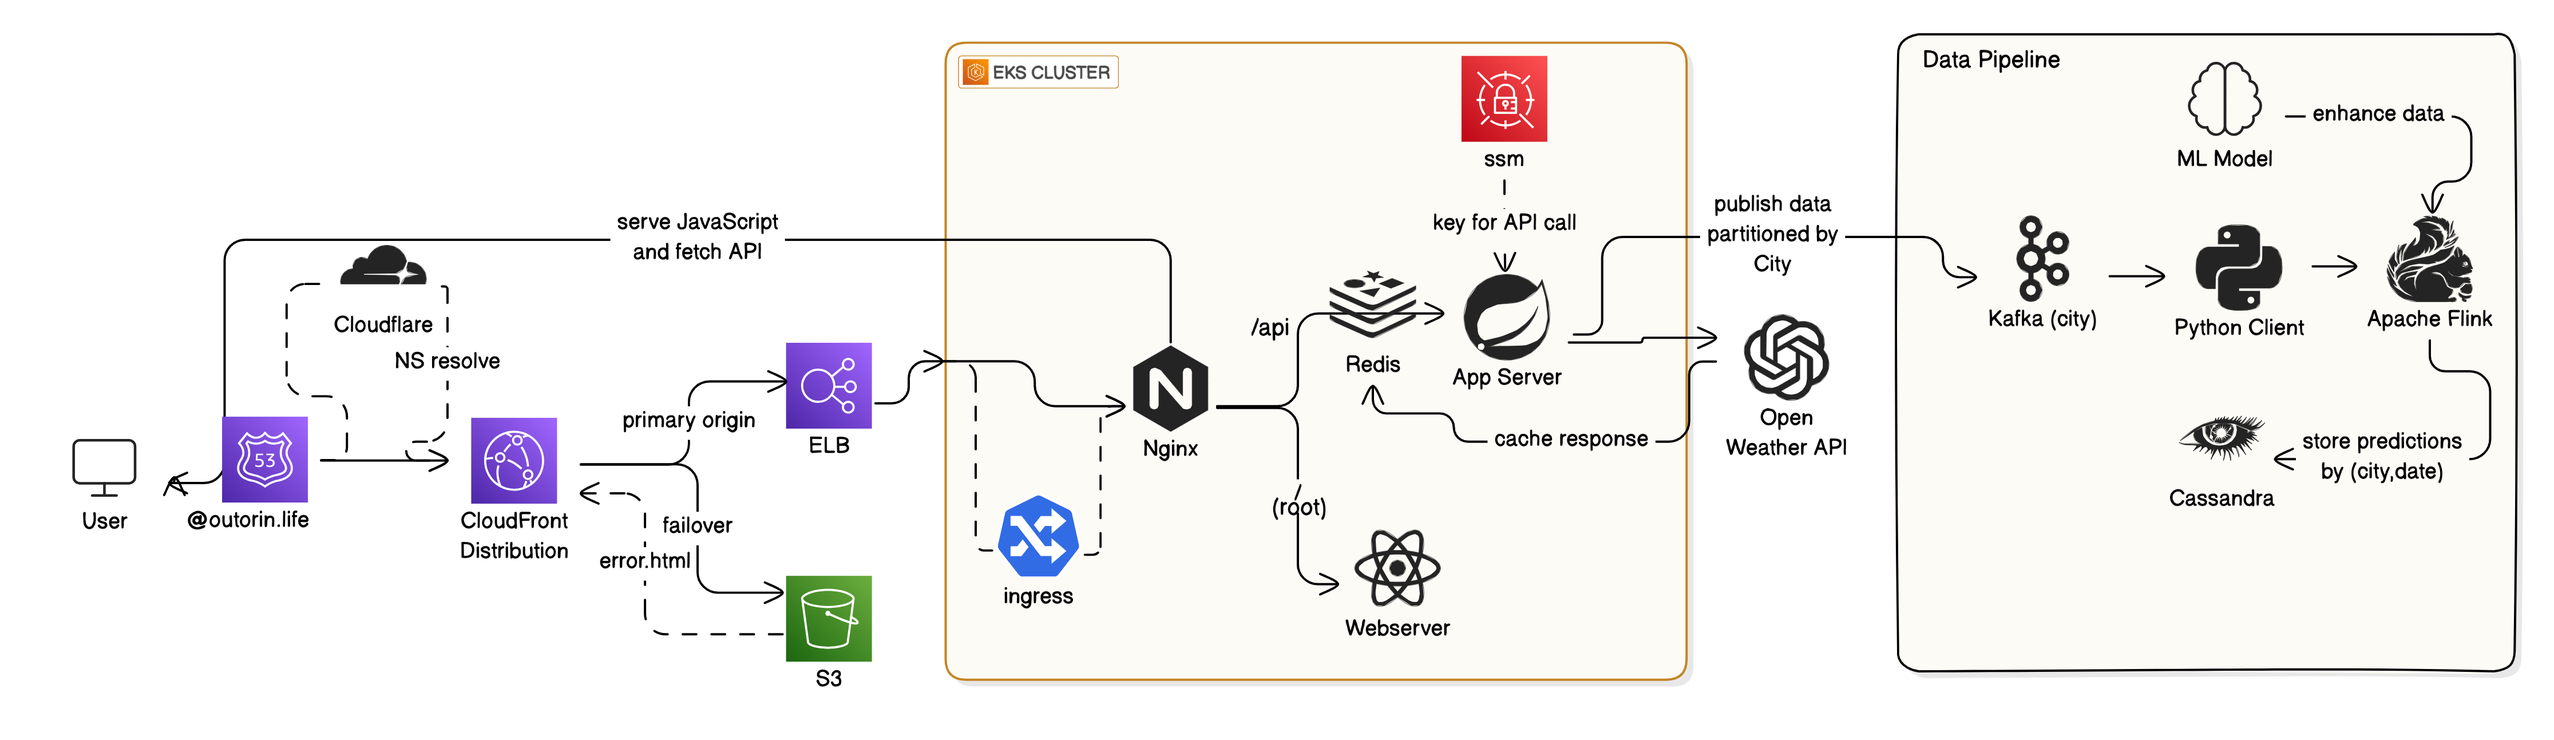
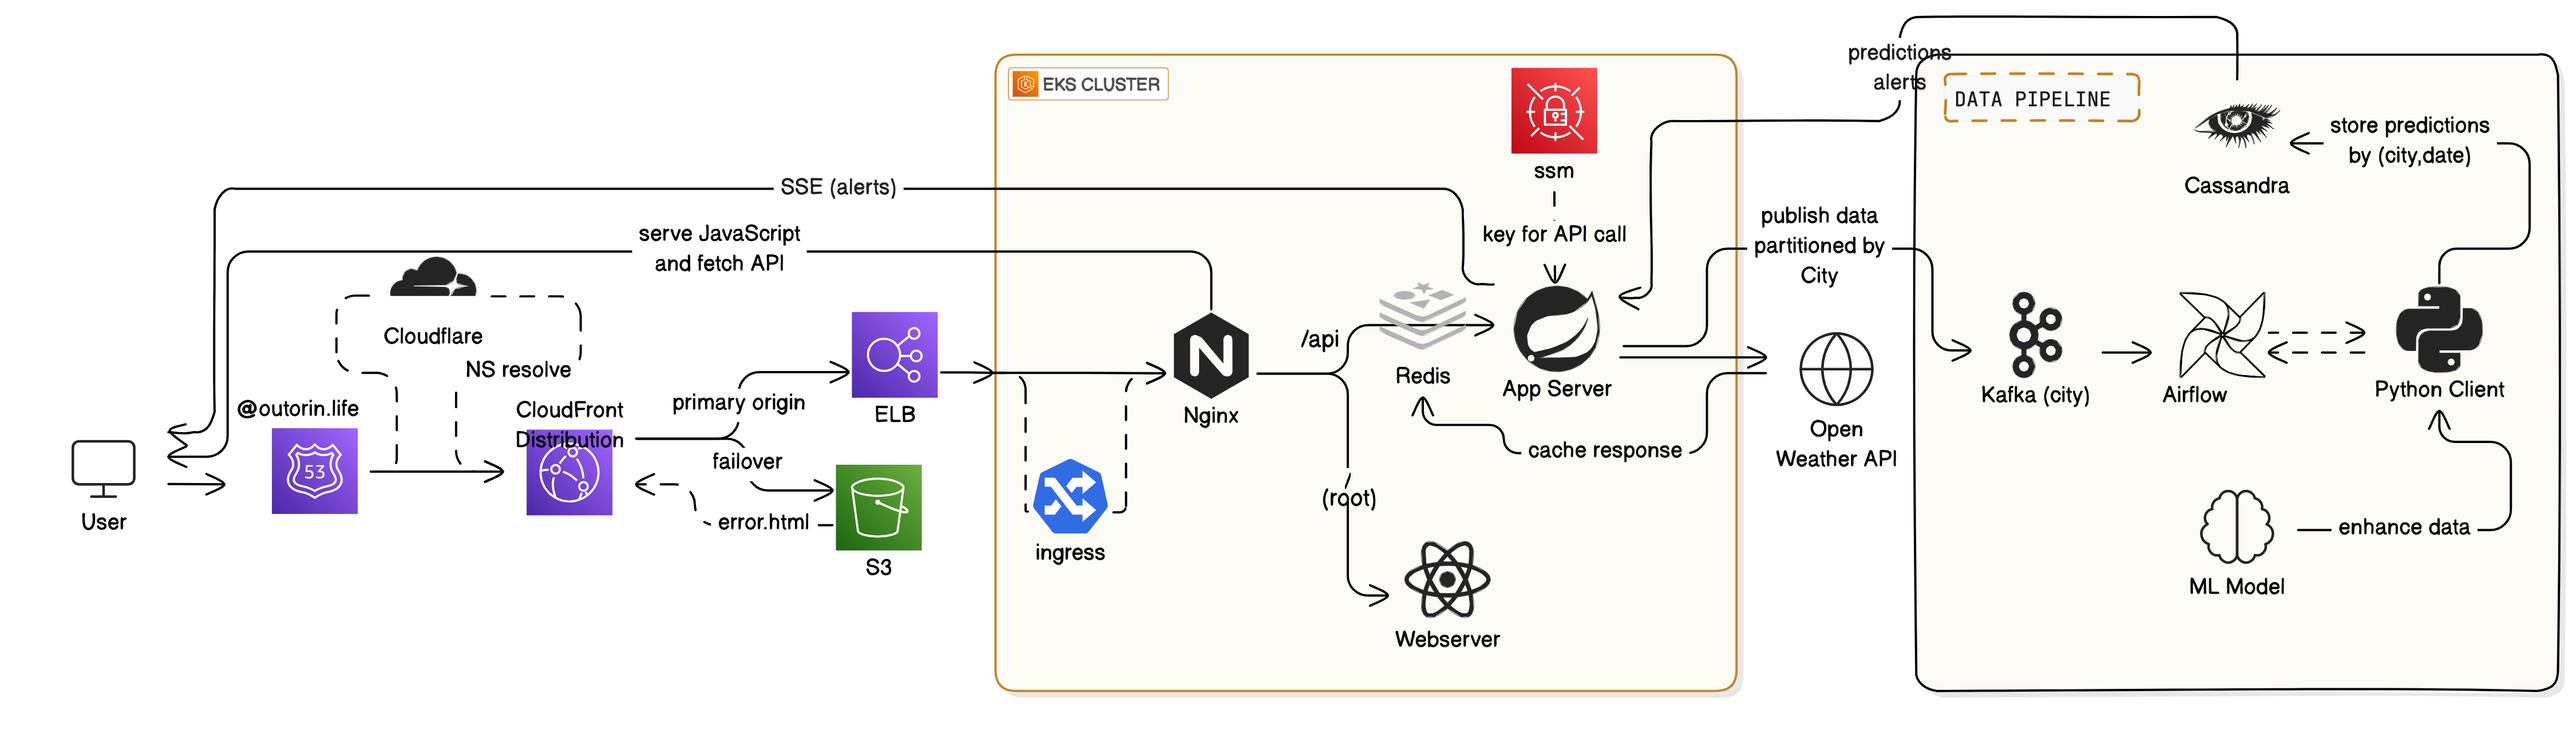
sse for alert predictions - prediction calculation takes time

diff --git a/weather-prediction-ui/src/js/daily/WeatherReport.tsx b/weather-prediction-ui/src/js/daily/WeatherReport.tsx
@@ -1,6 +1,6 @@
 import React from 'react';
 import { FunctionComponent, useEffect, useState } from 'react';
-import { getWeatherReport } from '../../api/call';
+import { getWeatherReport, getWeatherReportAlertPerdictions } from '../../api/call';
 import { Report } from '../../model/Report';
 
 type Props = {
@@ -11,6 +11,7 @@ const WeatherReport: FunctionComponent<Props> = (props: Props) => {
 
   const { city } = props;
 
+  const [alerts, setAlerts] = useState([]);
   const [temperature, setTemperature] = useState<Partial<Report> | null>(null);
   const [reports, setReports] = useState<string[]>([]);
 
@@ -23,6 +24,23 @@ const WeatherReport: FunctionComponent<Props> = (props: Props) => {
     ).catch(
       console.error
     )
+  }, [city]);
+
+  useEffect(() => {
+    const eventSource = getWeatherReportAlertPerdictions(city);
+    eventSource.onmessage = (event) => {
+      const newAlerts = JSON.parse(event.data);
+      setAlerts(newAlerts);
+    };
+
+    eventSource.onerror = (error) => {
+      console.error('EventSource failed:', error);
+      eventSource.close();
+    };
+
+    return () => {
+      eventSource.close();
+    };
   }, [city]);
 
   return (
@@ -41,7 +59,7 @@ const WeatherReport: FunctionComponent<Props> = (props: Props) => {
             </span>
           </div>
           <p className='text-slate-500 dark:text-slate-400 mt-2 text-5xl'>
-            {report}
+            {alerts.join(', ')}
           </p>
         </div>
       ))}

diff --git a/weather-prediction-ui/src/api/call.ts b/weather-prediction-ui/src/api/call.ts
@@ -34,6 +34,11 @@ export async function getWeatherReport(city: string): Promise<Report> {
   return data;
 }
 
+export function getWeatherReportAlertPerdictions(city: string): EventSource {
+
+  return new EventSource(`${baseUrl}/cities/${city}/forecast/alerts`)
+}
+
 export async function getWeatherForecastByDays(city: string, days: number = 3): Promise<DayAndReport[]> {
 
   baseUrl = getbaseUrl();

diff --git a/api/src/main/java/life/outorin/myday/service/WeatherService.java b/api/src/main/java/life/outorin/myday/service/WeatherService.java
@@ -3,17 +3,24 @@ package life.outorin.myday.service;
 import com.datastax.astra.client.Database;
 import com.datastax.astra.client.model.*;
 import com.fasterxml.jackson.databind.ObjectMapper;
-
 import life.outorin.myday.dto.Coord;
 import life.outorin.myday.dto.WeatherReport;
 import org.springframework.beans.factory.annotation.Autowired;
 import org.springframework.beans.factory.annotation.Value;
 import org.springframework.stereotype.Service;
+import org.springframework.web.servlet.mvc.method.annotation.SseEmitter;
 import reactor.core.publisher.Mono;
 
+import java.io.IOException;
+import java.time.LocalDate;
+import java.time.LocalDateTime;
 import java.time.ZoneId;
+import java.util.Arrays;
 import java.util.List;
-import java.util.UUID;
+import java.util.Optional;
+import java.util.concurrent.Executors;
+import java.util.concurrent.ScheduledExecutorService;
+import java.util.concurrent.TimeUnit;
 import java.util.stream.Collectors;
 
 @Service
@@ -68,34 +75,14 @@ public class WeatherService {
         System.out.println("Connected to AstraDB " + database.getNamespaceName());
     }
 
-//    private Mono<WeatherReport> saveWeatherReport(String city, WeatherReport report) {
-//        return Mono.fromCallable(() -> {
-//            Document document = Document.create(report);
-//            document.put("_id", UUID.randomUUID().toString()); // Generate a unique _id
-//            document.put("city", city); // Add city as primary key
-//            document.put("timestamp", report.dt().atZone(ZoneId.systemDefault()).toInstant()); // Add timestamp as primary key
-//            document.put("temp_min", report.temp_min()); // Add timestamp as primary key
-//            document.put("temp_max", report.temp_max()); // Add timestamp as primary key
-//            database.getCollection("weather_report").insertOne(document);
-//
-//            // Send the WeatherReport to the Kafka topic
-//            producerService.produce(reportTopic, city, report.toString());
-//
-//            return report;
-//        });
-//    }
-
-    private Mono<WeatherReport> fetchWeatherReportFromCassandra(String city) {
+    private Mono<WeatherReport> fetchCurrentWeatherReportFromCassandra(String city) {
         return Mono.fromCallable(() -> {
-            FindOneOptions options = new FindOneOptions().sort(Sorts.descending("timestamp"));
-            Document document = database.getCollection("weather_report")
-                    .findOne(Filters.eq("city", city), options)
-                    .get();
-            if (document == null) {
-                throw new RuntimeException("Weather report not found for city: " + city);
-            }
+            LocalDateTime currentTime = LocalDate.now().atStartOfDay();
+            FindOptions options = new FindOptions().sort(Sorts.descending("timestamp"));
+            List<Document> document = database.getCollection("weather_report")
+                    .find(Filters.eq("city", city), options).all();
             System.out.println("Weather report found: " + document);
-            return new WeatherReport(document);
+            return new WeatherReport(document.stream().findFirst().get());
         });
     }
 
@@ -113,4 +100,65 @@ public class WeatherService {
                     .collect(Collectors.toList());
         });
     }
+
+    public SseEmitter getCurrentWeatherAlerts(String city) {
+        SseEmitter emitter = new SseEmitter();
+
+        ScheduledExecutorService executor = Executors.newScheduledThreadPool(1);
+        executor.scheduleAtFixedRate(() -> {
+//            if (!isEmitterActive(emitter)) {
+                fetchCurrentWeatherReportFromCassandra(city)
+                        .doOnNext(weatherReport -> {
+                            try {
+                                emitter.send(SseEmitter.event().data(weatherReport.alerts()));
+                            } catch (IOException e) {
+                                emitter.completeWithError(e);
+                            }
+                        })
+                        .doOnError(error -> {
+                            try {
+                                emitter.send(SseEmitter.event().data(List.of()));
+                            } catch (IOException e) {
+                                emitter.completeWithError(e);
+                            }
+                        })
+                        .subscribe();
+//            }   else {
+//                executor.shutdown();
+//            }
+
+        }, 0, 60, TimeUnit.SECONDS); // Check every 5 seconds
+
+        emitter.onCompletion(executor::shutdown);
+        emitter.onTimeout(executor::shutdown);
+
+        return emitter;
+    }
+
+    private boolean isEmitterActive(SseEmitter emitter) {
+        try {
+            emitter.send(SseEmitter.event().comment(""));
+            return true;
+        } catch (IOException e) {
+            return false;
+        }
+    }
+
+
+//    private Mono<WeatherReport> saveWeatherReport(String city, WeatherReport report) {
+//        return Mono.fromCallable(() -> {
+//            Document document = Document.create(report);
+//            document.put("_id", UUID.randomUUID().toString()); // Generate a unique _id
+//            document.put("city", city); // Add city as primary key
+//            document.put("timestamp", report.dt().atZone(ZoneId.systemDefault()).toInstant()); // Add timestamp as primary key
+//            document.put("temp_min", report.temp_min()); // Add timestamp as primary key
+//            document.put("temp_max", report.temp_max()); // Add timestamp as primary key
+//            database.getCollection("weather_report").insertOne(document);
+//
+//            // Send the WeatherReport to the Kafka topic
+//            producerService.produce(reportTopic, city, report.toString());
+//
+//            return report;
+//        });
+//    }
 }

diff --git a/api/src/main/java/life/outorin/myday/controller/WeatherController.java b/api/src/main/java/life/outorin/myday/controller/WeatherController.java
@@ -38,6 +38,11 @@ public class WeatherController {
         return weatherService.getReport(city);
     }
 
+    @GetMapping("/cities/{city}/forecast/alerts")
+    public SseEmitter getCurrentWeatherAlerts(@PathVariable String city) {
+        return weatherService.getCurrentWeatherAlerts(city);
+    }
+
     @GetMapping("/cities/{city}/days/{days}/forecast")
     public Mono<List<WeatherReport>> getPast3DaysWeather(@PathVariable String city, @PathVariable Integer days) {
         return weatherService.fetchWeatherReportHistoryFromCassandra(city);
